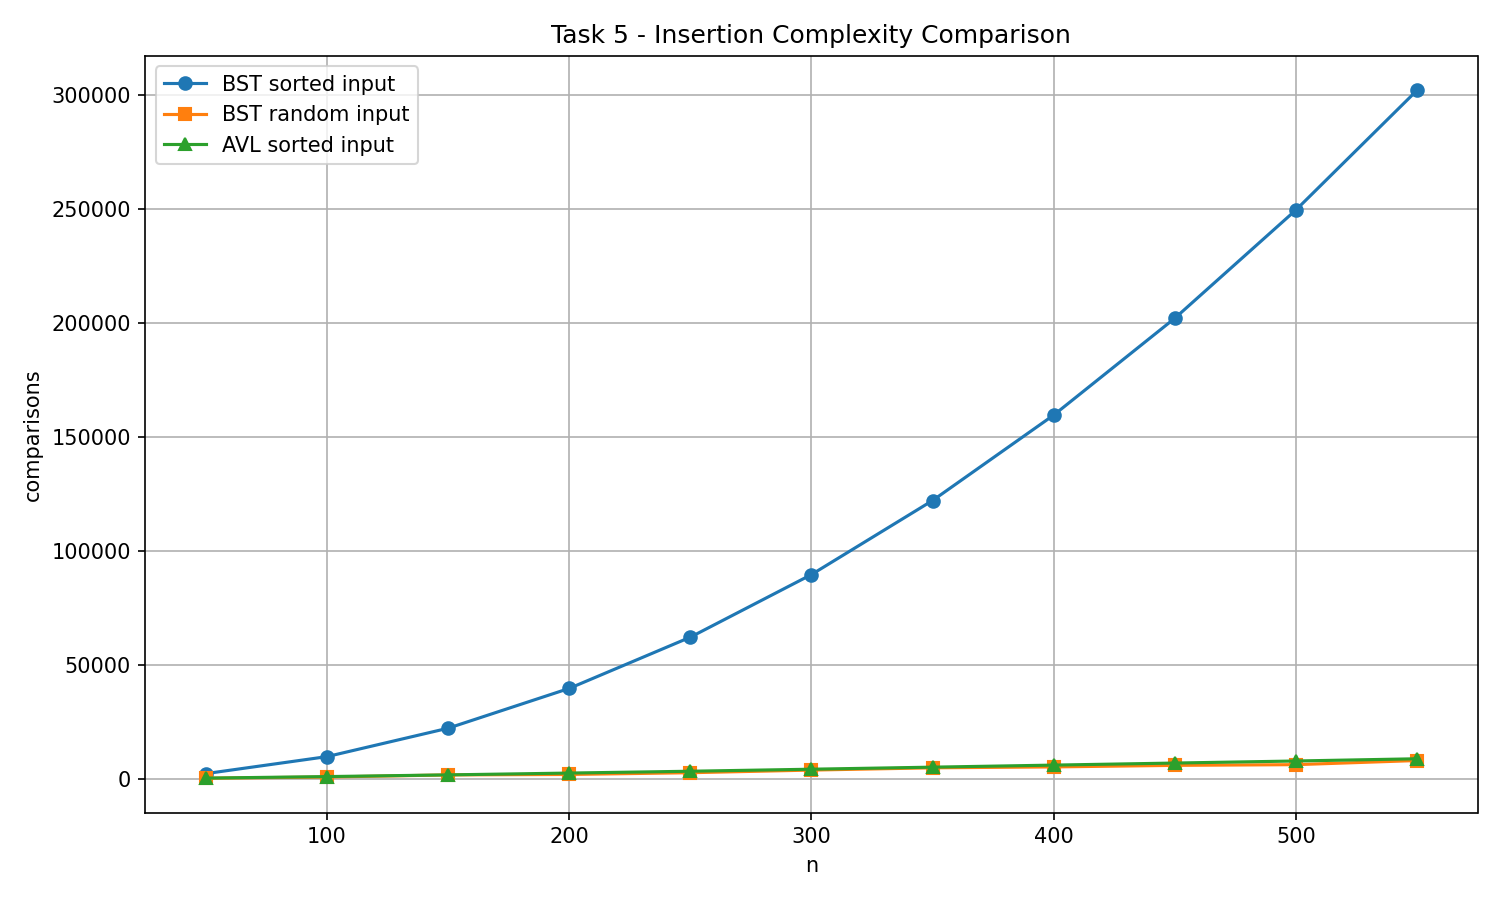
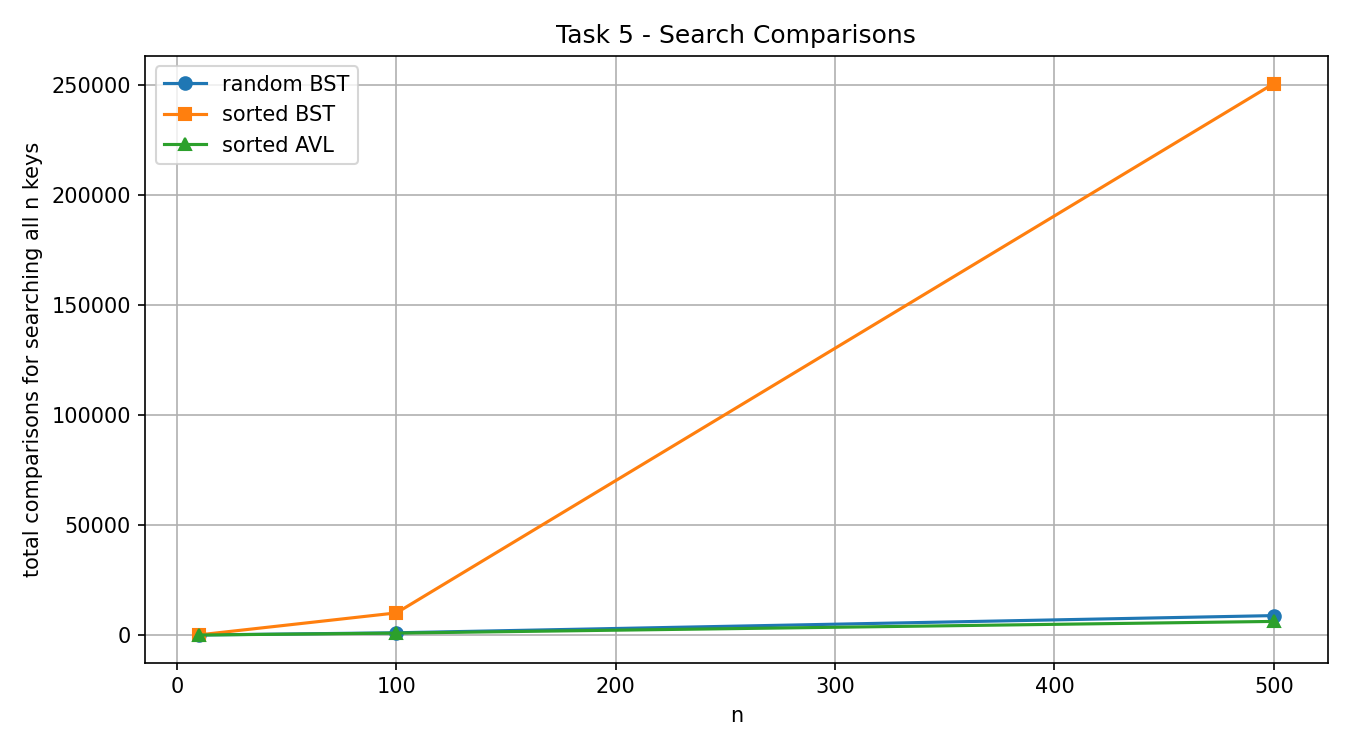
Added calculations for V04/5
new values and refreshed values

diff --git a/Praktikum/V04/5/aufgabe5_komplexitaet.py b/Praktikum/V04/5/aufgabe5_komplexitaet.py
@@ -1,17 +1,18 @@
 """
 Daniel Baer
-09.05.2026
+10.05.2026
 
 mINF4/1, V04, Task 5 "Complexity Analysis"
 
 aufgabe5_komplexitaet.py
 
-This script compares insertion complexity by counting comparisons for:
-- BST with sorted input (worst case)
-- BST with random input (average case)
-- AVL with sorted input (self-balancing)
+This script measures search comparisons on already built trees for n = 10, 100, 500.
+Scenarios:
+- random Binary Search Tree
+- sorted Binary Search Tree
+- sorted AVL Tree
 
-It generates a plot and writes measured values plus interpretation.
+Only successful searches are measured (searching all inserted keys once).
 """
 
 import random
@@ -35,90 +36,142 @@ from vorlesung.L05_binaere_baeume.bin_tree import BinaryTree  # type: ignore[imp
 from vorlesung.L05_binaere_baeume.avl_tree import AVLTree  # type: ignore[import-not-found]
 
 
-def build_bst(values: list[int]) -> int:
-    """Build BST and return number of comparisons used for insertion."""
-    ctx = AlgoContext()
+def build_bst(values: list[int], ctx: AlgoContext) -> BinaryTree:
+    """Build and return a BST with the provided insertion order."""
     tree = BinaryTree(ctx)
     for value in values:
         tree.insert(value)
-    return ctx.comparisons
+    return tree
 
 
-def build_avl(values: list[int]) -> int:
-    """Build AVL tree and return number of comparisons used for insertion."""
-    ctx = AlgoContext()
+def build_avl(values: list[int], ctx: AlgoContext) -> AVLTree:
+    """Build and return an AVL tree with the provided insertion order."""
     tree = AVLTree(ctx)
     for value in values:
         tree.insert(value)
-    return ctx.comparisons
+    return tree
 
 
-def run_experiment(sizes: list[int]) -> tuple[list[int], list[int], list[int]]:
-    """Run all three complexity scenarios for each input size."""
-    bst_sorted: list[int] = []
-    bst_random: list[int] = []
-    avl_sorted: list[int] = []
+def count_search_comparisons(tree, ctx: AlgoContext, search_values: list[int]) -> tuple[int, float]:
+    """Measure comparisons for successful searches in an already finished tree."""
+    ctx.reset()
+    for value in search_values:
+        tree.search(value)
+    total = ctx.comparisons
+    avg = total / len(search_values) if search_values else 0.0
+    return total, avg
+
+
+def run_experiment(sizes: list[int]) -> list[dict[str, float]]:
+    """Run all required scenarios for each n and return measured metrics."""
+    rows: list[dict[str, float]] = []
 
     for n in sizes:
         sorted_values = list(range(1, n + 1))
-        rnd = random.Random(42 + n)
+        rnd = random.Random(1000 + n)
         random_values = sorted_values[:]
         rnd.shuffle(random_values)
 
-        bst_sorted.append(build_bst(sorted_values))
-        bst_random.append(build_bst(random_values))
-        avl_sorted.append(build_avl(sorted_values))
+        # Scenario 1: random BST
+        ctx_random_bst = AlgoContext()
+        random_bst = build_bst(random_values, ctx_random_bst)
+        random_bst_total, random_bst_avg = count_search_comparisons(
+            random_bst, ctx_random_bst, sorted_values
+        )
 
-    return bst_sorted, bst_random, avl_sorted
+        # Scenario 2: sorted BST
+        ctx_sorted_bst = AlgoContext()
+        sorted_bst = build_bst(sorted_values, ctx_sorted_bst)
+        sorted_bst_total, sorted_bst_avg = count_search_comparisons(
+            sorted_bst, ctx_sorted_bst, sorted_values
+        )
+
+        # Scenario 3: sorted AVL
+        ctx_sorted_avl = AlgoContext()
+        sorted_avl = build_avl(sorted_values, ctx_sorted_avl)
+        sorted_avl_total, sorted_avl_avg = count_search_comparisons(
+            sorted_avl, ctx_sorted_avl, sorted_values
+        )
+
+        rows.append(
+            {
+                "n": n,
+                "random_bst_total": random_bst_total,
+                "random_bst_avg": random_bst_avg,
+                "sorted_bst_total": sorted_bst_total,
+                "sorted_bst_avg": sorted_bst_avg,
+                "sorted_avl_total": sorted_avl_total,
+                "sorted_avl_avg": sorted_avl_avg,
+            }
+        )
+
+    return rows
 
 
-def write_results(
-    sizes: list[int],
-    bst_sorted: list[int],
-    bst_random: list[int],
-    avl_sorted: list[int],
-) -> None:
-    """Write numeric results to text files for reproducibility."""
-    table_lines = [
-        "n,bst_sorted_comparisons,bst_random_comparisons,avl_sorted_comparisons"
-    ]
-    for n, bs, br, avl in zip(sizes, bst_sorted, bst_random, avl_sorted):
-        table_lines.append(f"{n},{bs},{br},{avl}")
-
-    (TASK_DIR / "messwerte.csv").write_text("\n".join(table_lines) + "\n", encoding="utf-8")
-
-    interpretation = (
-        "Task 5 - Complexity Analysis\n"
-        "Measured metric: comparisons during insertion\n"
-        "Scenarios:\n"
-        "1) BST with sorted input (worst case)\n"
-        "2) BST with random input (average case)\n"
-        "3) AVL with sorted input (self-balancing)\n\n"
-        "Interpretation:\n"
-        "- BST(sorted) grows approximately quadratically over full build (sum of linear path lengths).\n"
-        "- BST(random) grows slower, close to n*log(n) behavior in practice.\n"
-        "- AVL(sorted) also stays near n*log(n) due to balancing rotations.\n"
+def write_results(rows: list[dict[str, float]]) -> None:
+    """Write numeric table and concise interpretation to files."""
+    header = (
+        "n,"
+        "random_bst_total,random_bst_avg,"
+        "sorted_bst_total,sorted_bst_avg,"
+        "sorted_avl_total,sorted_avl_avg"
     )
-    (TASK_DIR / "antworten.txt").write_text(interpretation, encoding="utf-8")
+    lines = [header]
+    for row in rows:
+        lines.append(
+            f"{int(row['n'])},"
+            f"{int(row['random_bst_total'])},{row['random_bst_avg']:.4f},"
+            f"{int(row['sorted_bst_total'])},{row['sorted_bst_avg']:.4f},"
+            f"{int(row['sorted_avl_total'])},{row['sorted_avl_avg']:.4f}"
+        )
+
+    (TASK_DIR / "messwerte.csv").write_text("\n".join(lines) + "\n", encoding="utf-8")
+
+    answer_lines = [
+        "Task 5 - Search Comparison Counts",
+        "Measured metric: comparisons during successful search in already built trees",
+        "Sizes: n = 10, 100, 500",
+        "Scenarios: random BST, sorted BST, sorted AVL",
+        "",
+    ]
+    for row in rows:
+        answer_lines.extend(
+            [
+                f"n = {int(row['n'])}",
+                f"- random BST: total = {int(row['random_bst_total'])}, avg = {row['random_bst_avg']:.4f}",
+                f"- sorted BST: total = {int(row['sorted_bst_total'])}, avg = {row['sorted_bst_avg']:.4f}",
+                f"- sorted AVL: total = {int(row['sorted_avl_total'])}, avg = {row['sorted_avl_avg']:.4f}",
+                "",
+            ]
+        )
+    answer_lines.extend(
+        [
+            "Interpretation:",
+            "- sorted BST search comparisons grow strongly because the tree degenerates.",
+            "- random BST stays clearly lower.",
+            "- sorted AVL remains near logarithmic search depth due to balancing.",
+        ]
+    )
+    (TASK_DIR / "antworten.txt").write_text("\n".join(answer_lines) + "\n", encoding="utf-8")
 
 
-def save_plot(
-    sizes: list[int],
-    bst_sorted: list[int],
-    bst_random: list[int],
-    avl_sorted: list[int],
-) -> Path:
-    """Create and save complexity comparison plot."""
-    fig = plt.figure(figsize=(10, 6))
+def save_plot(rows: list[dict[str, float]]) -> Path:
+    """Create a line plot for total search comparisons over n."""
+    sizes = [int(row["n"]) for row in rows]
+    random_bst_total = [int(row["random_bst_total"]) for row in rows]
+    sorted_bst_total = [int(row["sorted_bst_total"]) for row in rows]
+    sorted_avl_total = [int(row["sorted_avl_total"]) for row in rows]
+
+    fig = plt.figure(figsize=(9, 5))
     ax = fig.add_subplot(1, 1, 1)
 
-    ax.plot(sizes, bst_sorted, marker="o", label="BST sorted input")
-    ax.plot(sizes, bst_random, marker="s", label="BST random input")
-    ax.plot(sizes, avl_sorted, marker="^", label="AVL sorted input")
+    ax.plot(sizes, random_bst_total, marker="o", label="random BST")
+    ax.plot(sizes, sorted_bst_total, marker="s", label="sorted BST")
+    ax.plot(sizes, sorted_avl_total, marker="^", label="sorted AVL")
 
-    ax.set_title("Task 5 - Insertion Complexity Comparison")
+    ax.set_title("Task 5 - Search Comparisons")
     ax.set_xlabel("n")
-    ax.set_ylabel("comparisons")
+    ax.set_ylabel("total comparisons for searching all n keys")
     ax.grid(True)
     ax.legend()
 
@@ -130,17 +183,19 @@ def save_plot(
 
 
 def main() -> None:
-    sizes = list(range(50, 551, 50))
-    bst_sorted, bst_random, avl_sorted = run_experiment(sizes)
-    write_results(sizes, bst_sorted, bst_random, avl_sorted)
-    plot_file = save_plot(sizes, bst_sorted, bst_random, avl_sorted)
+    sizes = [10, 100, 500]
+    rows = run_experiment(sizes)
+    write_results(rows)
+    plot_file = save_plot(rows)
 
     print("Task 5 finished.")
+    print("Search comparisons measured for finished trees.")
     print(f"Plot: {plot_file}")
-    print(f"Last row (n={sizes[-1]}):")
-    print(f"BST sorted comparisons: {bst_sorted[-1]}")
-    print(f"BST random comparisons: {bst_random[-1]}")
-    print(f"AVL sorted comparisons: {avl_sorted[-1]}")
+    for row in rows:
+        print(f"n = {int(row['n'])}")
+        print(f"  random BST total: {int(row['random_bst_total'])}")
+        print(f"  sorted BST total: {int(row['sorted_bst_total'])}")
+        print(f"  sorted AVL total: {int(row['sorted_avl_total'])}")
 
 
 if __name__ == "__main__":

diff --git a/Praktikum/V04/5/theoretische_herleitung_suche.md b/Praktikum/V04/5/theoretische_herleitung_suche.md
@@ -1,0 +1,96 @@
+# Task 5 - Theoretische Herleitung der Suchkosten
+
+## Ziel
+Herleitung der Anzahl der Vergleiche bei der erfolgreichen Suche in Abhaengigkeit von der Elementanzahl `n`.
+
+## Modell fuer Vergleiche
+Im verwendeten Suchcode wird pro besuchtem Knoten typischerweise zuerst `<` und danach `>` geprueft.
+Dadurch gilt naeherungsweise:
+
+`Vergleiche ~= 2 * (Anzahl besuchter Ebenen)`
+
+Wenn ein Treffer in Tiefe `d` liegt (Wurzel hat Tiefe 0), dann:
+
+`C(d) ~= 2 * (d + 1)`
+
+Die Suchkosten sind damit proportional zur Tiefe bzw. zur Baumhoehe `h`.
+
+---
+
+## 1) Sortierter BST (entarteter Baum)
+
+Bei sortiertem Einfuegen entsteht eine Kette mit Hoehe:
+
+`h = n - 1`
+
+Das `i`-te gefundene Element (in Kettenreihenfolge) kostet:
+
+`C_i = 2i`
+
+Gesamtkosten fuer die erfolgreiche Suche aller `n` Elemente genau einmal:
+
+`C_total(n) = sum_{i=1..n} 2i = n(n+1)`
+
+Durchschnittskosten pro Suche:
+
+`C_avg(n) = C_total(n)/n = n + 1`
+
+Asymptotisch:
+
+`C_search(n) = Theta(n)`
+
+Diese Formel erklaert exakt die gemessenen Werte:
+- `n = 10  -> 10 * 11 = 110`
+- `n = 100 -> 100 * 101 = 10100`
+- `n = 500 -> 500 * 501 = 250500`
+
+---
+
+## 2) Zufaelliger BST
+
+Bei zufaelliger Einfuegereihenfolge ist der Baum im Erwartungswert deutlich flacher.
+Fuer erfolgreiche Suche gilt klassisch (Knotenzugriffe):
+
+`E[Tiefe] ~= 2 ln(n)`
+
+Mit etwa zwei Vergleichen pro Ebene folgt:
+
+`E[C_search] ~= 4 ln(n) = Theta(log n)`
+
+Fuer alle `n` erfolgreichen Suchen zusammen:
+
+`C_total(n) = Theta(n log n)`
+
+---
+
+## 3) Sortierter AVL-Baum
+
+Der AVL-Baum balanciert nach jedem Einfuegen. Daher bleibt die Hoehe logarithmisch:
+
+`h = Theta(log n)`
+
+Eine bekannte obere Schranke fuer AVL-Hoehe ist:
+
+`h <= 1.44 * log2(n + 2) - 0.328`
+
+Mit zwei Vergleichen pro Ebene ergibt sich fuer erfolgreiche Suche:
+
+`C_search(n) <= 2 * (h + 1)`
+
+also ebenfalls:
+
+`C_search(n) = Theta(log n)`
+
+und fuer alle `n` erfolgreichen Suchen:
+
+`C_total(n) = Theta(n log n)`
+
+---
+
+## Fazit
+
+- Sortierter BST: lineare Suche pro Anfrage (`Theta(n)`), quadratische Gesamtkosten fuer alle Schluessel (`Theta(n^2)`).
+- Zufaelliger BST: logarithmische Suche im Erwartungswert (`Theta(log n)`), Gesamtkosten `Theta(n log n)`.
+- Sortierter AVL: durch Balancierung ebenfalls logarithmische Suche (`Theta(log n)`), Gesamtkosten `Theta(n log n)`.
+
+Die Messdaten aus `messwerte.csv` sind damit theoretisch konsistent.

diff --git a/Praktikum/V04/5/README.md b/Praktikum/V04/5/README.md
@@ -1,18 +1,27 @@
 # Task 5 - Complexity Analysis
 
 ## Goal
-Analyze and compare insertion complexity using measured comparisons.
+Measure and compare search comparisons in already built trees.
 
 ## Scenarios
-- BST with sorted input (worst case)
-- BST with random input (average case)
-- AVL with sorted input (balancing active)
+- random Binary Search Tree
+- sorted Binary Search Tree
+- sorted AVL Tree
+
+## Sizes
+- n = 10
+- n = 100
+- n = 500
+
+For each scenario and size, the script builds the tree first and then measures
+comparisons for successful search of all inserted keys.
 
 ## Files
 - `aufgabe5_komplexitaet.py`: implementation.
 - `komplexitaet_plot.png`: generated comparison plot.
 - `messwerte.csv`: measured numeric data.
 - `antworten.txt`: interpretation summary.
+- `theoretische_herleitung_suche.md`: theoretical derivation with formulas for search complexity.
 
 ## Run
 From this folder:
